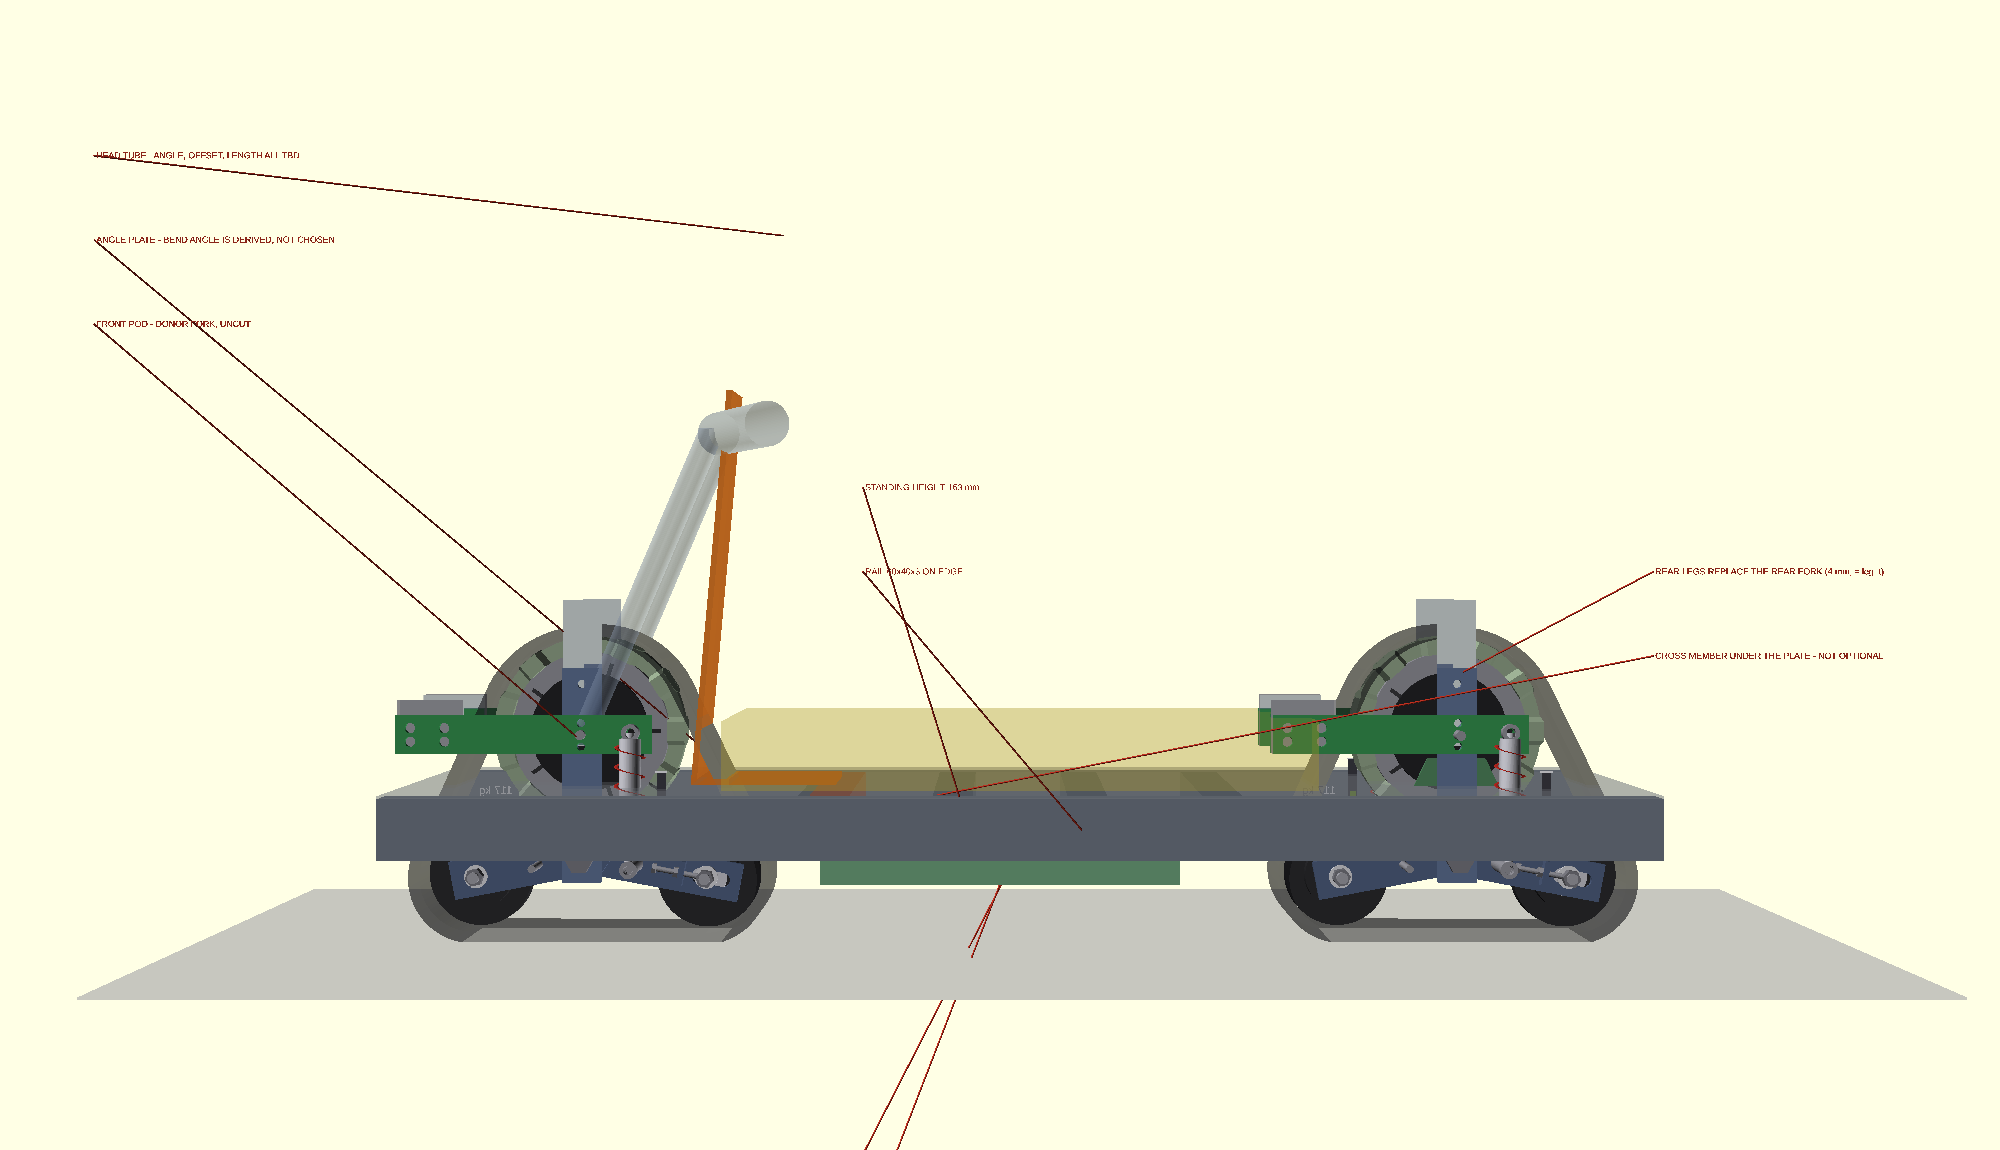
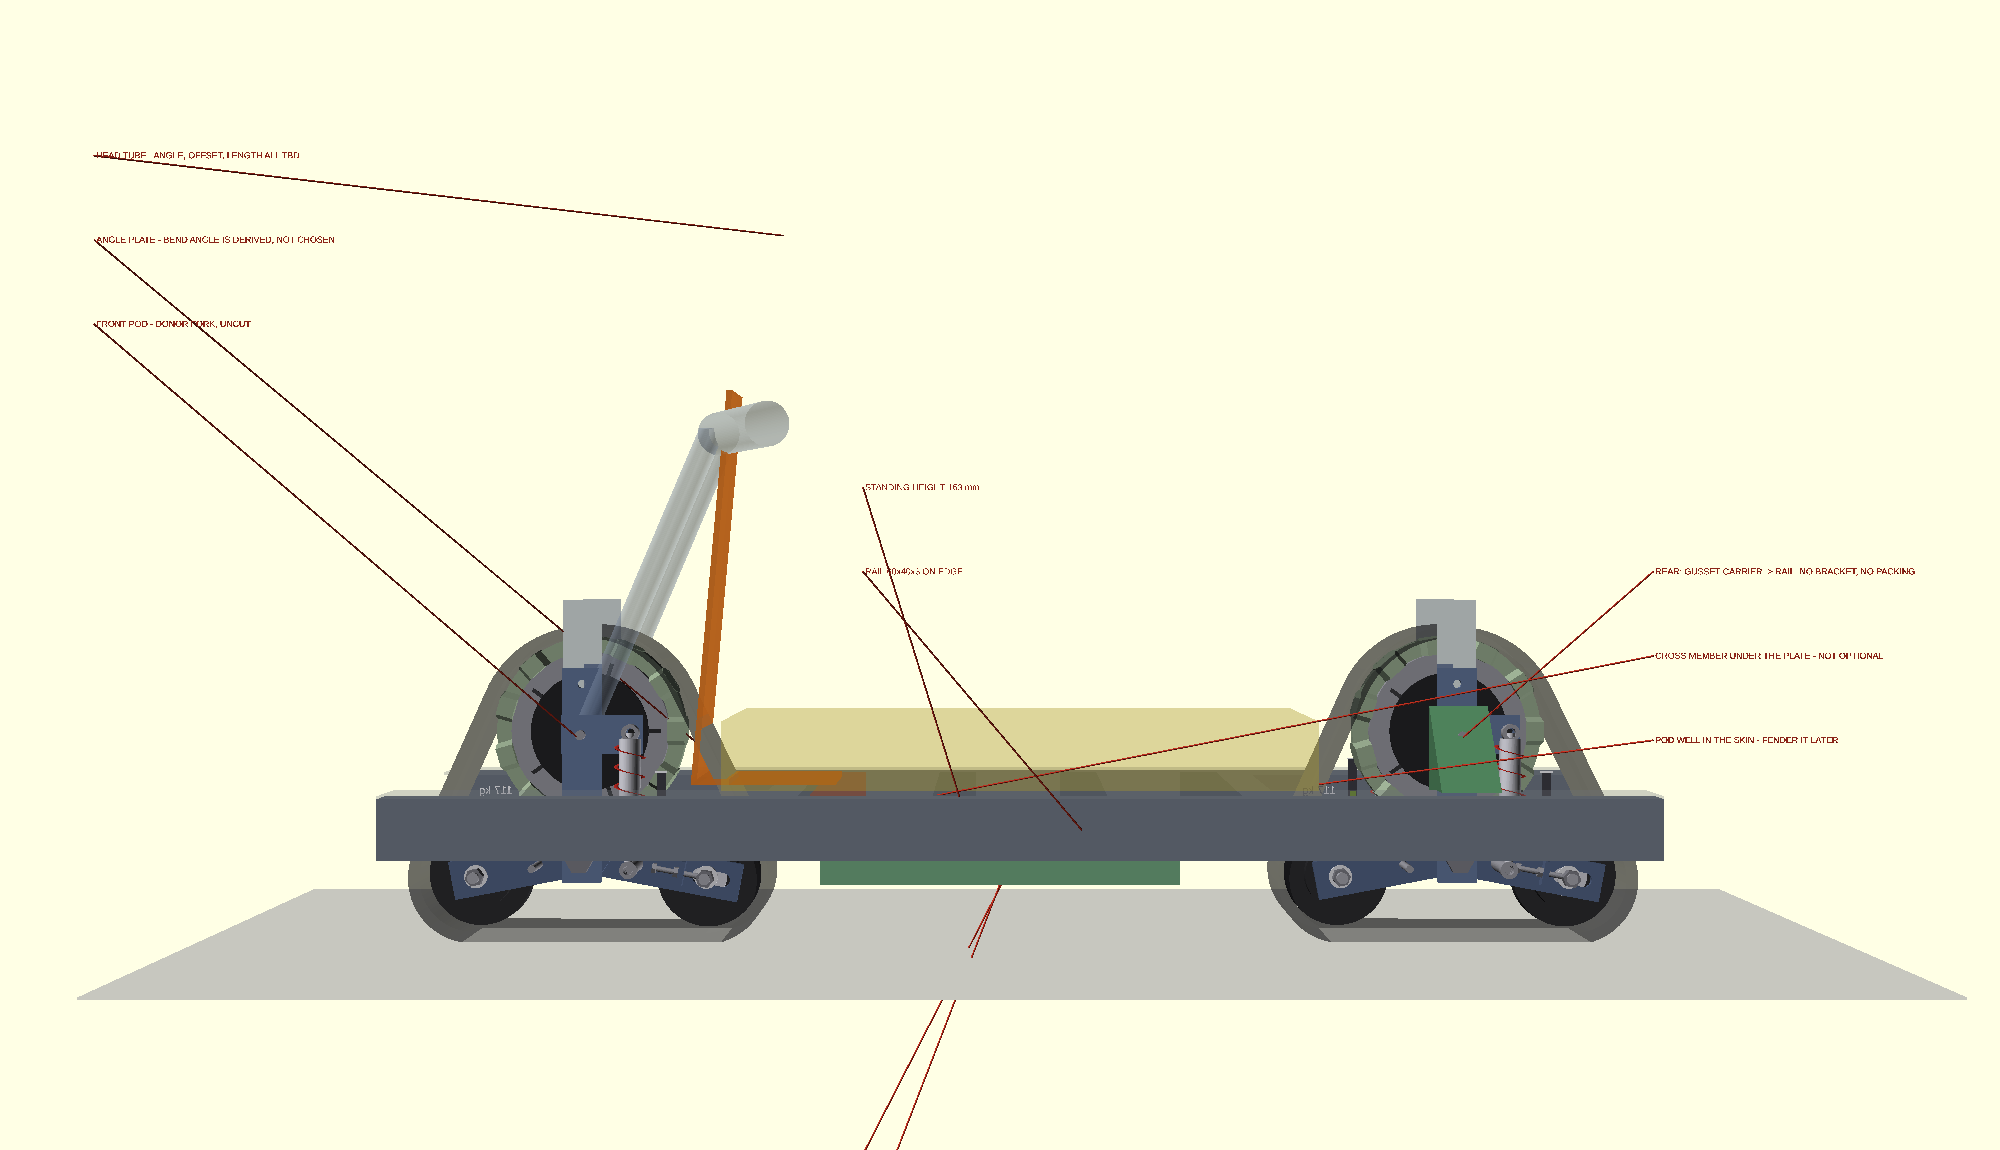
Rev 012: delete the rear bracket, cut pod wells — owner caught two faults
Owner, 2026-09-10: "why is the chassis not connected straight to the hub
wheel? why do we need the green plate at all?" Right on both counts.

The green plate is the Rev 011d bracket blade. Its only job was hanging the
pod off a donor rear fork whose inner gap measured 117.7 against a 118 belt.
We were working around a fork we are now cutting off and throwing away. Gone
with it: the keyed blade, 17 packing, the 8x M10 friction joint and its
1h/5h/20h retorque, the backing strips, the 55 mm rearward wheel shift.

Replacement is short. The carrier already sits at |z|=74..80 and spans
y=64..284, so it passes the rail on its own; all that is missing is the
~89 mm of z out to the rail inner face. One gusset per side, rmount_x wide.
The sprocket (|z|<=17.5) and belt (|z|<=59) are nowhere near that band.

The FRONT pod deliberately gets none of this — it has to steer, so it stays
on the donor fork and reaches the floor only through the head tube and the
angle plate. Echoed, because it is why that plate carries so much.

Two faults the question exposed:
  - carrier_group() drew the bracket whenever use_bracket was set, so it was
    rendering on the FRONT pod too, where it never belonged. Chassis mode
    forces it off through use_bracket_eff; other modes are untouched.
  - the floor skin was a plain full-length sheet: at a 163 deck against 327
    pods it passed straight THROUGH both. Skin now has a well over each pod
[…]

Changed region(s): [[0.62, 0.5783, 0.837, 0.7], [0.186, 0.5783, 0.341, 0.7]]

diff --git a/archive/rev011-uncut-11T-lowB/README.md b/archive/rev011-uncut-11T-lowB/README.md
@@ -126,6 +126,40 @@ lying to yourself:
 | `plate_b` — face B length | Same reason. |
 | `head_bot_y` — head tube height | The fork is uncut, so the pod's taller axle carries the whole front end up with it. |
 
+### The Rev 011d bracket is deleted
+
+Owner's question, 2026-09-10: *"why is the chassis not connected straight to
+the hub wheel? why do we need the green plate at all?"* — Correct on both
+counts, and it exposed two modelling faults.
+
+The green plate is the Rev 011d bracket blade. Its **only** job was to hang
+the pod off a donor rear fork whose inner gap measured 117.7 against a 118 mm
+belt. We were bending over backwards not to modify a fork we are now cutting
+off and throwing away. It goes, and with it the keyed blade, the 17 mm
+packing, the 8 × M10 friction joint (with its 1 h / 5 h / 20 h retorque), the
+backing strips and the 55 mm rearward wheel shift.
+
+**What replaces it:** the carrier plate already sits at |z| = 74…80 and
+already spans y = 64…284, so it passes right by the rail on its own. The only
+thing missing is the ~89 mm of z between the carrier and the rail's inner
+face — one **gusset per side**, `rmount_x` wide fore-aft. Nothing is in that
+z band: the sprocket is at |z| ≤ 17.5 and the belt at |z| ≤ 59.
+
+**The front pod deliberately gets none of this — it has to steer.** It stays
+hung on the donor fork and reaches the floor only through the head tube and
+the angle plate. That is the whole front load path, and it is why that plate
+matters so much.
+
+Two faults the question surfaced, both now fixed:
+
+- `carrier_group()` drew the bracket whenever `use_bracket` was on, so it was
+  appearing on the **front** pod too, where it never belonged. Chassis mode
+  now forces it off via `use_bracket_eff`.
+- The floor skin was a plain sheet running the full length — at a 163 mm deck
+  against 327 mm pods it passed **straight through both of them**. The skin
+  now has a **well** cut over each pod (`pod_well_clr`). The tracks come up
+  through those openings; fender them later.
+
 ### What it already caught (at placeholder values)
 
 - **The front end rises 100 mm.** Hub axle 216 vs a stock ~116 wheel axle. The
@@ -139,10 +173,14 @@ lying to yourself:
   full wheelbase instead of ducking into the 537 mm bay between the pods.
 - **A 90 mm pack does not fit a 60 mm rail.** It hangs 30 mm below, so real
   ground clearance under the packs is 70, not the 100 you set.
-- **Rear leg thickness is not free.** The carriers bolt to the leg OUTER faces,
-  so `rleg_t` must stay at `leg_t` = 4. Any other value moves `cz`, the pivot
-  stack, the sleeves and the packing for **both** pods. Stiffen the leg with a
-  doubler above the axle zone instead.
+- **Keep the carrier plane at |z| = 74.** It is `fork_gap/2 + leg_t`, and the
+  front pod still hangs on the real fork, so moving it would split the two
+  pods into different parts. Both stay identical.
+- **The gusset can't start at the carrier face.** The shock tab stub occupies
+  |z| = 80…86 and reaches x = 0…52, so the gusset starts outboard of it at 86
+  (`rm_z0`). Merging the gusset and the shock tab into one plate is the
+  obvious simplification once real numbers land — exactly as Rev 011d merged
+  the blade and the tab.
 
 ### To fill in (Sheet 0B)
 
